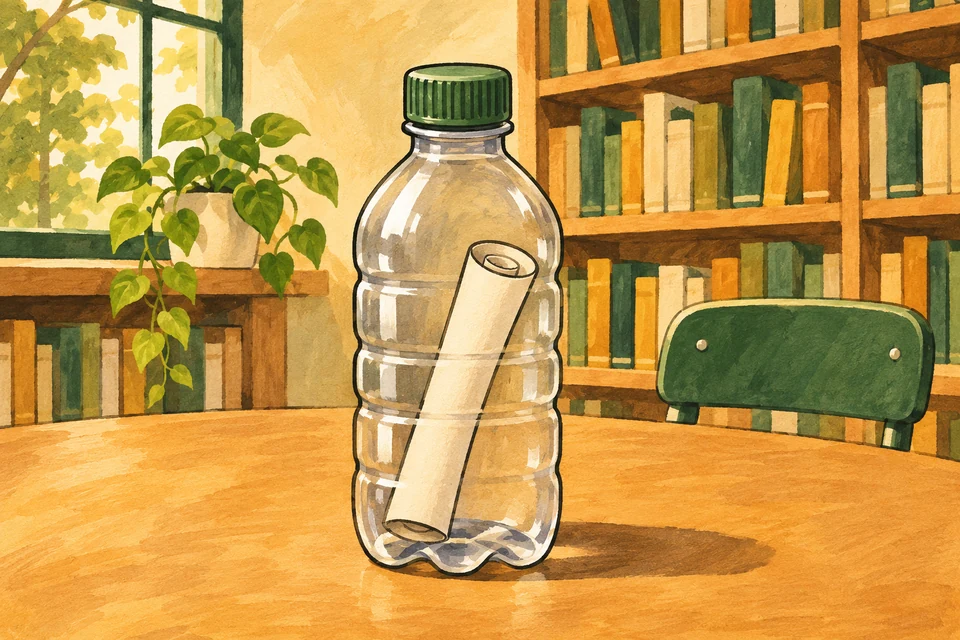
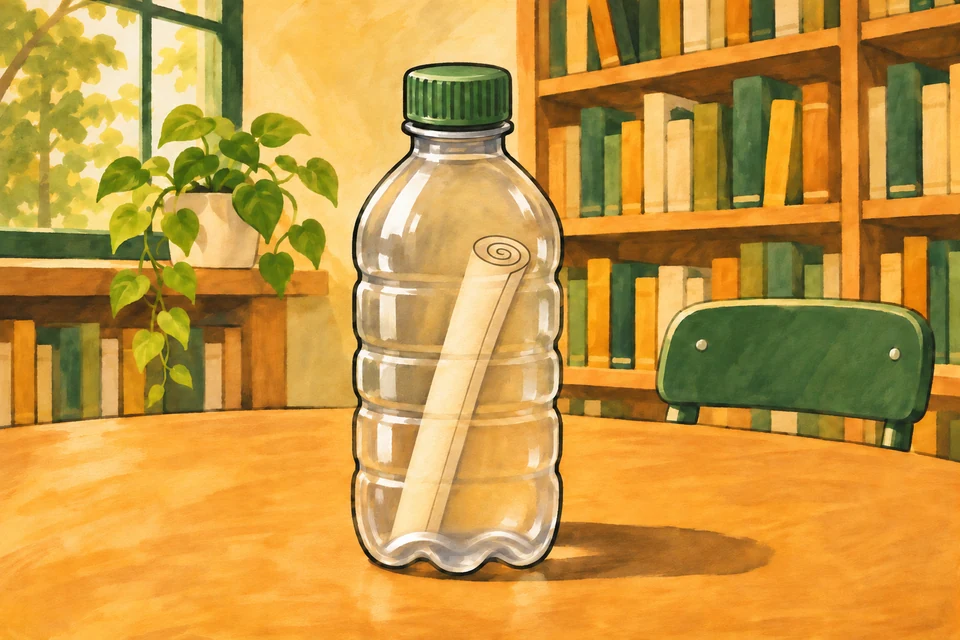
Correct the rolled paper in reading L055

diff --git a/assets/readings/L055-illustracio.md b/assets/readings/L055-illustracio.md
@@ -2,6 +2,8 @@
 
 Imatge `l055-la-botella-de-los-mensajes.webp`, generada amb el generador integrat i optimitzada per al catàleg.
 
+La revisió mostra un sol full enrotllat en espiral. La base de l’ampolla amaga l’extrem inferior del paper.
+
 ```text
 Original wide 3:2 editorial illustration for a Spanish primary-school reading worksheet. An unbranded clear plastic bottle with a single rolled paper note inside sits on a library table; soft shelves in the background. The rolled note shows no words. Whimsical ink and gouache, light honey tones and dark green accents, open space. Clear grayscale reproduction on a school printer. No captions, readable text, logos, border, or collage layout.
 ```
